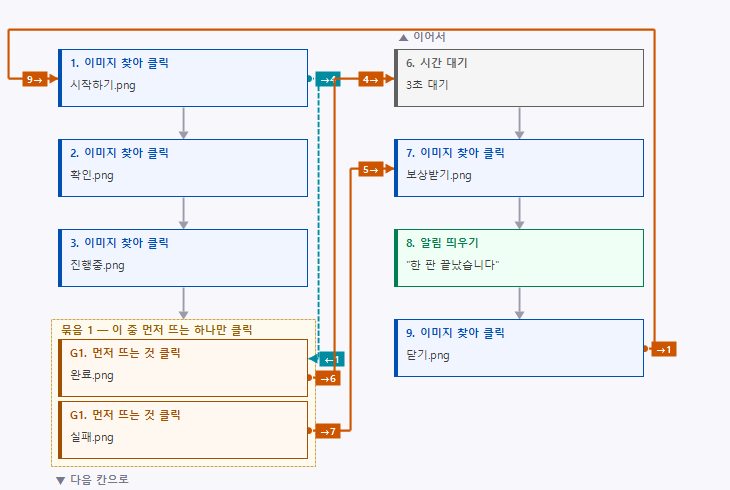
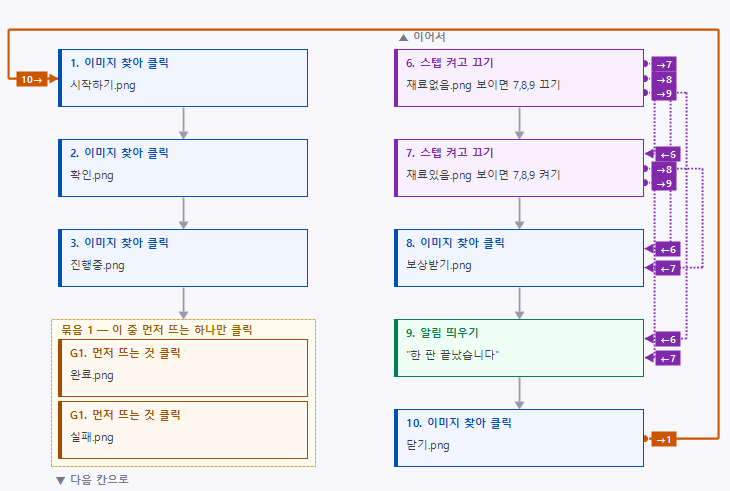
이미지가 보이면 다른 스텝을 켜고 끄는 스텝 추가
특정 이미지가 화면에 보이면 지정한 스텝들을 통째로 켜거나 끈다.
이미지 두 개로 구간을 여닫는 스위치를 만들 수 있다.
예) 5번이 재료없음을 보면 7,8,9 끄기 / 6번이 재료있음을 보면 7,8,9 켜기

- 기다리지 않고 그 자리에서 한 번만 확인하고 지나간다
- 켜고 끈 상태는 실행 중에만 유지되고 저장된 매크로는 바뀌지 않는다
- 실행 흐름 창에 보라 점선으로 대상 스텝을 표시
- 클릭을 하지 않는 스텝이라 클릭 관련 설정은 숨김

diff --git a/Form1.cs b/Form1.cs
@@ -83,6 +83,9 @@ namespace ImageMacro
         Panel   pnlDelay=new(); NumericUpDown nudDelayMs=new(); ComboBox cmbDelayUnit=new(); Label lblDelayHint=new();
         // notification panel
         Panel   pnlNotif=new(); TextBox txtNotifText=new();
+        // 스텝 켜고 끄기
+        Panel   pnlToggleRow=new(); TextBox txtToggleTargets=new(); ComboBox cmbToggleAction=new();
+        Panel   pnlClickCfg=new(),pnlConfRow=new(); Label lblPreviewHint=new(); int _confRowY=0;
         ComboBox cmbClickMode=new(); Button btnAdbCfg=new(); ComboBox cmbMonitor=new(); ToolTip? _tips=null;
         CheckBox chkEventMode=new(); CheckBox chkAntiCapture=new();
         Label   lblStatus=new();
@@ -256,7 +259,7 @@ namespace ImageMacro
             pnlRightInner.Controls.Add(MkSL("── 스텝 종류 ─────────────────────────────────────────────",rx,ry)); ry+=18;
             pnlRightInner.Controls.Add(MkL("종류:",rx,ry+3));
             cmbStepType.Location=new System.Drawing.Point(ix,ry); cmbStepType.Size=new System.Drawing.Size(220,24); cmbStepType.DropDownStyle=ComboBoxStyle.DropDownList; cmbStepType.Font=new Font("맑은 고딕",9);
-            cmbStepType.Items.AddRange(new object[]{"이미지 찾아 클릭","여러 이미지 중 먼저 뜨는 것 클릭","키보드 입력","마우스 이동·클릭","시간 대기","알림 띄우기"});
+            cmbStepType.Items.AddRange(new object[]{"이미지 찾아 클릭","여러 이미지 중 먼저 뜨는 것 클릭","키보드 입력","마우스 이동·클릭","시간 대기","알림 띄우기","이미지 보이면 스텝 켜고 끄기"});
             cmbStepType.SelectedIndex=0; cmbStepType.SelectedIndexChanged+=OnStepTypeChanged;
             pnlRightInner.Controls.Add(cmbStepType); ry+=32;
 
@@ -290,6 +293,18 @@ namespace ImageMacro
                 pnlGroupRow.Controls.Add(new Label{Text="같이 볼 묶음 번호:",Font=new Font("맑은 고딕",8.5f,FontStyle.Bold),Location=new System.Drawing.Point(6,7),AutoSize=true,ForeColor=Color.FromArgb(140,60,0)});
                 nudGroupId.Location=new System.Drawing.Point(PIX,5); nudGroupId.Size=new System.Drawing.Size(55,22); nudGroupId.Minimum=1; nudGroupId.Maximum=99; nudGroupId.Value=1; nudGroupId.ValueChanged+=(s,e)=>{if(_selStep!=null){_selStep.GroupId=(int)nudGroupId.Value;RefreshStepList();}}; pnlGroupRow.Controls.Add(nudGroupId);
                 pnlGroupRow.Controls.Add(new Label{Text="(같은 번호끼리 한꺼번에 감시)",ForeColor=Color.Gray,Font=new Font("맑은 고딕",8),Location=new System.Drawing.Point(PIX+64,8),AutoSize=true});
+                // 켜고 끄기 설정 줄 (묶음 번호 줄과 같은 자리 — 둘은 같이 안 보인다)
+                pnlToggleRow.Location=new System.Drawing.Point(0,y); pnlToggleRow.Size=new System.Drawing.Size(pw,30); pnlToggleRow.BackColor=Color.FromArgb(248,240,255); pnlToggleRow.BorderStyle=BorderStyle.FixedSingle; pnlImage.Controls.Add(pnlToggleRow);
+                pnlToggleRow.Controls.Add(new Label{Text="이 이미지가 보이면 스텝",Font=new Font("맑은 고딕",8.5f,FontStyle.Bold),Location=new System.Drawing.Point(6,7),AutoSize=true,ForeColor=Color.FromArgb(110,30,150)});
+                txtToggleTargets.Location=new System.Drawing.Point(PIX,4); txtToggleTargets.Size=new System.Drawing.Size(90,23); txtToggleTargets.Font=new Font("맑은 고딕",9); txtToggleTargets.PlaceholderText="예: 7,8,9";
+                txtToggleTargets.TextChanged+=(s,e)=>{if(_suppressStepEvt)return;if(_selStep!=null){_selStep.ToggleTargets=txtToggleTargets.Text;RefreshStepList();}};
+                pnlToggleRow.Controls.Add(txtToggleTargets);
+                pnlToggleRow.Controls.Add(new Label{Text="번을",Font=new Font("맑은 고딕",8.5f,FontStyle.Bold),Location=new System.Drawing.Point(PIX+96,7),AutoSize=true,ForeColor=Color.FromArgb(110,30,150)});
+                cmbToggleAction.Location=new System.Drawing.Point(PIX+128,4); cmbToggleAction.Size=new System.Drawing.Size(120,23); cmbToggleAction.DropDownStyle=ComboBoxStyle.DropDownList; cmbToggleAction.Font=new Font("맑은 고딕",8.5f);
+                cmbToggleAction.Items.AddRange(new object[]{"끄기","켜기","반대로"});
+                cmbToggleAction.SelectedIndex=0;
+                cmbToggleAction.SelectedIndexChanged+=(s,e)=>{if(_suppressStepEvt)return;if(_selStep!=null){_selStep.ToggleAction=(ToggleAction)cmbToggleAction.SelectedIndex;RefreshStepList();}};
+                pnlToggleRow.Controls.Add(cmbToggleAction);
                 y+=38;
                 // 한 줄: [파일: ──경로──] [선택] [인식 테스트]
                 pnlImage.Controls.Add(MkL("이미지 파일:",0,y+3));
@@ -311,7 +326,7 @@ namespace ImageMacro
                 y+=22;
                 // 미리보기
                 picPreview.Location=new System.Drawing.Point(0,y); picPreview.Size=new System.Drawing.Size(pw,140); picPreview.BorderStyle=BorderStyle.FixedSingle; picPreview.SizeMode=PictureBoxSizeMode.Zoom; picPreview.BackColor=Color.FromArgb(230,230,235); picPreview.Cursor=Cursors.Cross; picPreview.Paint+=PicPreview_Paint; picPreview.MouseClick+=PicPreview_Click; pnlImage.Controls.Add(picPreview);
-                pnlImage.Controls.Add(new Label{Text="▲ 미리보기 클릭 = 클릭 위치 지정",Location=new System.Drawing.Point(0,y+142),Size=new System.Drawing.Size(pw,16),ForeColor=Color.FromArgb(0,110,180),Font=new Font("맑은 고딕",8)});
+                lblPreviewHint.Text="▲ 미리보기 클릭 = 클릭 위치 지정"; lblPreviewHint.Location=new System.Drawing.Point(0,y+142); lblPreviewHint.Size=new System.Drawing.Size(pw,16); lblPreviewHint.ForeColor=Color.FromArgb(0,110,180); lblPreviewHint.Font=new Font("맑은 고딕",8); pnlImage.Controls.Add(lblPreviewHint);
                 y+=160;
                 // 클릭 위치 오프셋
                 pnlClickPos.Location=new System.Drawing.Point(0,y); pnlClickPos.Size=new System.Drawing.Size(pw,54); pnlClickPos.BorderStyle=BorderStyle.FixedSingle; pnlClickPos.BackColor=Color.FromArgb(245,255,245); pnlImage.Controls.Add(pnlClickPos);
@@ -323,17 +338,24 @@ namespace ImageMacro
                 lblClickInfo.Location=new System.Drawing.Point(204,31); lblClickInfo.AutoSize=true; lblClickInfo.Font=new Font("맑은 고딕",8); lblClickInfo.ForeColor=Color.DarkGreen; lblClickInfo.Text="(이미지 중앙)"; pnlClickPos.Controls.Add(lblClickInfo);
                 btnResetClick.Text="중앙으로 되돌리기"; btnResetClick.Location=new System.Drawing.Point(pw-136,26); btnResetClick.Size=new System.Drawing.Size(128,26); btnResetClick.Click+=BtnResetClick_Click; pnlClickPos.Controls.Add(btnResetClick);
                 y+=62;
-                // 클릭 설정
-                pnlImage.Controls.Add(MkSL("── 클릭 설정 ───────────────────────────────────────────────",0,y)); y+=18;
-                rdClickL.Text="좌클릭"; rdClickL.Location=new System.Drawing.Point(0,y); rdClickL.AutoSize=true; rdClickL.Checked=true; rdClickR.Text="우클릭"; rdClickR.Location=new System.Drawing.Point(PIX,y); rdClickR.AutoSize=true;
-                rdClickL.CheckedChanged+=OnClickTypeChanged; rdClickR.CheckedChanged+=OnClickTypeChanged; pnlImage.Controls.Add(rdClickL); pnlImage.Controls.Add(rdClickR); y+=26;
-                pnlImage.Controls.Add(MkL("클릭 횟수:",0,y+4)); nudClicks.Location=new System.Drawing.Point(PIX,y); nudClicks.Size=new System.Drawing.Size(80,23); nudClicks.Minimum=1; nudClicks.Maximum=100; nudClicks.Value=1; nudClicks.ValueChanged+=OnNudClicks; pnlImage.Controls.Add(nudClicks); y+=26;
-                pnlImage.Controls.Add(MkL("클릭 사이 대기(ms):",0,y+4)); nudCDelay.Location=new System.Drawing.Point(PIX,y); nudCDelay.Size=new System.Drawing.Size(80,23); nudCDelay.Minimum=50; nudCDelay.Maximum=5000; nudCDelay.Value=100; nudCDelay.ValueChanged+=OnNudCDelay; pnlImage.Controls.Add(nudCDelay); y+=26;
-                pnlImage.Controls.Add(MkL("찾기 제한 시간(ms):",0,y+4)); nudTimeout.Location=new System.Drawing.Point(PIX,y); nudTimeout.Size=new System.Drawing.Size(80,23); nudTimeout.Minimum=0; nudTimeout.Maximum=60000; nudTimeout.Value=0; nudTimeout.ValueChanged+=(s,e)=>{if(_selStep!=null)_selStep.Timeout=(int)nudTimeout.Value;}; pnlImage.Controls.Add(nudTimeout);
-                pnlImage.Controls.Add(new Label{Text="(0 = 제한 없음)",Location=new System.Drawing.Point(PIX+88,y+4),AutoSize=true,ForeColor=Color.Gray,Font=new Font("맑은 고딕",8)}); y+=30;
-                pnlImage.Controls.Add(MkSL("── 이미지 일치도 ────────────────────────────────────────────",0,y)); y+=18;
-                pnlImage.Controls.Add(MkL("일치도 기준:",0,y+5)); tbConf.Location=new System.Drawing.Point(PIX,y); tbConf.Size=new System.Drawing.Size(280,28); tbConf.Minimum=50; tbConf.Maximum=99; tbConf.Value=80; tbConf.TickFrequency=5; tbConf.Scroll+=OnConf; pnlImage.Controls.Add(tbConf);
-                lblConf.Text="80%"; lblConf.Location=new System.Drawing.Point(PIX+290,y+5); lblConf.AutoSize=true; pnlImage.Controls.Add(lblConf);
+                // 클릭 설정 (켜고 끄기 스텝에서는 통째로 숨긴다)
+                pnlClickCfg.Location=new System.Drawing.Point(0,y); pnlClickCfg.Size=new System.Drawing.Size(pw,126); pnlClickCfg.BackColor=Color.Transparent; pnlImage.Controls.Add(pnlClickCfg);
+                {
+                    int c=0;
+                    pnlClickCfg.Controls.Add(MkSL("── 클릭 설정 ───────────────────────────────────────────────",0,c)); c+=18;
+                    rdClickL.Text="좌클릭"; rdClickL.Location=new System.Drawing.Point(0,c); rdClickL.AutoSize=true; rdClickL.Checked=true; rdClickR.Text="우클릭"; rdClickR.Location=new System.Drawing.Point(PIX,c); rdClickR.AutoSize=true;
+                    rdClickL.CheckedChanged+=OnClickTypeChanged; rdClickR.CheckedChanged+=OnClickTypeChanged; pnlClickCfg.Controls.Add(rdClickL); pnlClickCfg.Controls.Add(rdClickR); c+=26;
+                    pnlClickCfg.Controls.Add(MkL("클릭 횟수:",0,c+4)); nudClicks.Location=new System.Drawing.Point(PIX,c); nudClicks.Size=new System.Drawing.Size(80,23); nudClicks.Minimum=1; nudClicks.Maximum=100; nudClicks.Value=1; nudClicks.ValueChanged+=OnNudClicks; pnlClickCfg.Controls.Add(nudClicks); c+=26;
+                    pnlClickCfg.Controls.Add(MkL("클릭 사이 대기(ms):",0,c+4)); nudCDelay.Location=new System.Drawing.Point(PIX,c); nudCDelay.Size=new System.Drawing.Size(80,23); nudCDelay.Minimum=50; nudCDelay.Maximum=5000; nudCDelay.Value=100; nudCDelay.ValueChanged+=OnNudCDelay; pnlClickCfg.Controls.Add(nudCDelay); c+=26;
+                    pnlClickCfg.Controls.Add(MkL("찾기 제한 시간(ms):",0,c+4)); nudTimeout.Location=new System.Drawing.Point(PIX,c); nudTimeout.Size=new System.Drawing.Size(80,23); nudTimeout.Minimum=0; nudTimeout.Maximum=60000; nudTimeout.Value=0; nudTimeout.ValueChanged+=(s,e)=>{if(_selStep!=null)_selStep.Timeout=(int)nudTimeout.Value;}; pnlClickCfg.Controls.Add(nudTimeout);
+                    pnlClickCfg.Controls.Add(new Label{Text="(0 = 제한 없음)",Location=new System.Drawing.Point(PIX+88,c+4),AutoSize=true,ForeColor=Color.Gray,Font=new Font("맑은 고딕",8)});
+                }
+                y+=126;
+                _confRowY=y;
+                pnlConfRow.Location=new System.Drawing.Point(0,y); pnlConfRow.Size=new System.Drawing.Size(pw,50); pnlConfRow.BackColor=Color.Transparent; pnlImage.Controls.Add(pnlConfRow);
+                pnlConfRow.Controls.Add(MkSL("── 이미지 일치도 ────────────────────────────────────────────",0,0));
+                pnlConfRow.Controls.Add(MkL("일치도 기준:",0,23)); tbConf.Location=new System.Drawing.Point(PIX,18); tbConf.Size=new System.Drawing.Size(280,28); tbConf.Minimum=50; tbConf.Maximum=99; tbConf.Value=80; tbConf.TickFrequency=5; tbConf.Scroll+=OnConf; pnlConfRow.Controls.Add(tbConf);
+                lblConf.Text="80%"; lblConf.Location=new System.Drawing.Point(PIX+290,23); lblConf.AutoSize=true; pnlConfRow.Controls.Add(lblConf);
             }
 
             // ── 키 입력 패널 ──
@@ -417,26 +439,34 @@ namespace ImageMacro
 
         void ShowPanelForType(StepType t)
         {
-            pnlImage.Visible=t==StepType.Sequential||t==StepType.Simultaneous;
+            bool img=t==StepType.Sequential||t==StepType.Simultaneous||t==StepType.ToggleSteps;
+            pnlImage.Visible=img;
             pnlKey.Visible=t==StepType.KeyInput;
             pnlMove.Visible=t==StepType.MouseMove;
             pnlDelay.Visible=t==StepType.Delay;
             pnlNotif.Visible=t==StepType.Notification;
             pnlGroupRow.Visible=t==StepType.Simultaneous;
+            pnlToggleRow.Visible=t==StepType.ToggleSteps;
+            // 켜고 끄기 스텝은 클릭을 하지 않으니 클릭 관련 설정을 숨기고 일치도만 남긴다
+            bool clicks=t!=StepType.ToggleSteps;
+            pnlClickPos.Visible=clicks; pnlClickCfg.Visible=clicks; lblPreviewHint.Visible=clicks;
+            pnlConfRow.Top=clicks?_confRowY:pnlClickPos.Top;
         }
 
         // ══════════════════════════════════════════════════════
         //  카드 시스템
         // ══════════════════════════════════════════════════════
-        static Color GetTypeColor(StepType t)=>t switch{StepType.Sequential=>Color.FromArgb(0,80,180),StepType.Simultaneous=>Color.FromArgb(160,80,0),StepType.KeyInput=>Color.FromArgb(80,0,160),StepType.MouseMove=>Color.FromArgb(0,120,120),StepType.Delay=>Color.FromArgb(96,96,96),StepType.Notification=>Color.FromArgb(0,128,80),_=>Color.Gray};
-        static Color GetCardBg(StepType t)=>t switch{StepType.Sequential=>Color.FromArgb(240,245,255),StepType.Simultaneous=>Color.FromArgb(255,248,240),StepType.KeyInput=>Color.FromArgb(245,240,255),StepType.MouseMove=>Color.FromArgb(240,255,255),StepType.Delay=>Color.FromArgb(245,245,245),StepType.Notification=>Color.FromArgb(240,255,245),_=>Color.White};
+        static Color GetTypeColor(StepType t)=>t switch{StepType.Sequential=>Color.FromArgb(0,80,180),StepType.Simultaneous=>Color.FromArgb(160,80,0),StepType.KeyInput=>Color.FromArgb(80,0,160),StepType.MouseMove=>Color.FromArgb(0,120,120),StepType.Delay=>Color.FromArgb(96,96,96),StepType.Notification=>Color.FromArgb(0,128,80),StepType.ToggleSteps=>Color.FromArgb(130,40,170),_=>Color.Gray};
+        static Color GetCardBg(StepType t)=>t switch{StepType.Sequential=>Color.FromArgb(240,245,255),StepType.Simultaneous=>Color.FromArgb(255,248,240),StepType.KeyInput=>Color.FromArgb(245,240,255),StepType.MouseMove=>Color.FromArgb(240,255,255),StepType.Delay=>Color.FromArgb(245,245,245),StepType.Notification=>Color.FromArgb(240,255,245),StepType.ToggleSteps=>Color.FromArgb(248,240,255),_=>Color.White};
         static string GetTypeIcon(StepType t)=>"";
-        static string GetTypeName(StepType t)=>t switch{StepType.Sequential=>"이미지 찾아 클릭",StepType.Simultaneous=>"먼저 뜨는 것 클릭",StepType.KeyInput=>"키보드 입력",StepType.MouseMove=>"마우스 이동·클릭",StepType.Delay=>"시간 대기",StepType.Notification=>"알림 띄우기",_=>""};
+        static string GetTypeName(StepType t)=>t switch{StepType.Sequential=>"이미지 찾아 클릭",StepType.Simultaneous=>"먼저 뜨는 것 클릭",StepType.KeyInput=>"키보드 입력",StepType.MouseMove=>"마우스 이동·클릭",StepType.Delay=>"시간 대기",StepType.Notification=>"알림 띄우기",StepType.ToggleSteps=>"스텝 켜고 끄기",_=>""};
         static string GetCardContent(MacroStep st)=>st.Type switch{
             StepType.KeyInput=>string.IsNullOrEmpty(st.KeyText)?$"단축키: {st.HotKey}":$"타이핑: \"{st.KeyText}\"",
             StepType.MouseMove=>st.MoveAction==MoveAction.MoveOnly?$"이동: ({st.MoveX},{st.MoveY})":$"{(st.MoveAction==MoveAction.LeftClick?"좌클릭":"우클릭")}: ({st.MoveX},{st.MoveY})",
             StepType.Delay=>$"{st.DelayMs}{MacroItem.UnitName(st.DelayUnit)} 대기",
             StepType.Notification=>string.IsNullOrEmpty(st.NotificationText)?"(메시지 없음)":$"\"{st.NotificationText}\"",
+            StepType.ToggleSteps=>string.IsNullOrEmpty(st.ImagePath)?"(이미지 미지정)"
+                :$"{Path.GetFileName(st.ImagePath)} 보이면 {(string.IsNullOrWhiteSpace(st.ToggleTargets)?"(대상 없음)":st.ToggleTargets)} {ToggleActionName(st.ToggleAction)}",
             _=>string.IsNullOrEmpty(st.ImagePath)?"(이미지 미지정)":Path.GetFileName(st.ImagePath)};
 
         Panel MakeStepCard(int idx,MacroStep step,int cardW,bool selected)
@@ -589,7 +619,7 @@ namespace ImageMacro
         void OnStepTypeChanged(object? s,EventArgs e)
         {
             if(_selStep==null)return;
-            StepType t=cmbStepType.SelectedIndex switch{0=>StepType.Sequential,1=>StepType.Simultaneous,2=>StepType.KeyInput,3=>StepType.MouseMove,4=>StepType.Delay,5=>StepType.Notification,_=>StepType.Sequential};
+            StepType t=cmbStepType.SelectedIndex switch{0=>StepType.Sequential,1=>StepType.Simultaneous,2=>StepType.KeyInput,3=>StepType.MouseMove,4=>StepType.Delay,5=>StepType.Notification,6=>StepType.ToggleSteps,_=>StepType.Sequential};
             _selStep.Type=t; ShowPanelForType(t); RefreshStepList();
         }
 
@@ -874,7 +904,7 @@ namespace ImageMacro
         {
             nudClicks.ValueChanged-=OnNudClicks; nudCDelay.ValueChanged-=OnNudCDelay;
             cmbStepType.SelectedIndexChanged-=OnStepTypeChanged;
-            cmbStepType.SelectedIndex=st.Type switch{StepType.Sequential=>0,StepType.Simultaneous=>1,StepType.KeyInput=>2,StepType.MouseMove=>3,StepType.Delay=>4,StepType.Notification=>5,_=>0};
+            cmbStepType.SelectedIndex=st.Type switch{StepType.Sequential=>0,StepType.Simultaneous=>1,StepType.KeyInput=>2,StepType.MouseMove=>3,StepType.Delay=>4,StepType.Notification=>5,StepType.ToggleSteps=>6,_=>0};
             SetNud(nudWaitAfter,st.WaitAfter); chkEnabled.Checked=st.Enabled;
             SetNud(nudJump,st.JumpOnSuccess);
             ShowPanelForType(st.Type);
@@ -900,6 +930,7 @@ namespace ImageMacro
             lblPickPos.Text="위 버튼 클릭 후 3초 안에 원하는 위치로 마우스를 이동하세요."; lblPickPos.ForeColor=Color.Gray;
             // 대기
             SetNud(nudDelayMs,st.DelayMs); cmbDelayUnit.SelectedIndex=Math.Clamp(st.DelayUnit,0,2); UpdateDelayHint(st);
+            txtToggleTargets.Text=st.ToggleTargets; cmbToggleAction.SelectedIndex=(int)st.ToggleAction;
             // 알림
             txtNotifText.Text=st.NotificationText;
             // 감시 대상
@@ -928,7 +959,7 @@ namespace ImageMacro
             if(_current.EventMode){
                 foreach(var st in _current.Steps)if(st.Enabled&&st.Type==StepType.Simultaneous&&string.IsNullOrEmpty(st.ImagePath)){MessageBox.Show("이미지 파일이 지정되지 않은 '묶어 찾기' 스텝이 있습니다.","실행 불가");return;}
             }else{
-                foreach(var st in _current.Steps)if(st.Enabled&&(st.Type==StepType.Sequential||st.Type==StepType.Simultaneous)&&string.IsNullOrEmpty(st.ImagePath)){MessageBox.Show("이미지 파일이 지정되지 않은 스텝이 있습니다.","실행 불가");return;}
+                foreach(var st in _current.Steps)if(st.Enabled&&(st.Type==StepType.Sequential||st.Type==StepType.Simultaneous||st.Type==StepType.ToggleSteps)&&string.IsNullOrEmpty(st.ImagePath)){MessageBox.Show("이미지 파일이 지정되지 않은 스텝이 있습니다.","실행 불가");return;}
             }
             _isRunning=true; btnRun.Enabled=false; btnStop.Enabled=true;
             _searchMonitor=_current.SearchMonitor;
@@ -1025,6 +1056,7 @@ namespace ImageMacro
                     else if(step.Type==StepType.KeyInput){RunKey(step);i=NextAfterStep(macro,step,i+1,bitmaps,loopDone);}
                     else if(step.Type==StepType.MouseMove){RunMouseMove(step,macro);i=NextAfterStep(macro,step,i+1,bitmaps,loopDone);}
                     else if(step.Type==StepType.Delay){SetStatus($"[{macro.Name}] 스텝{i+1}: {step.DelayMs}{MacroItem.UnitName(step.DelayUnit)} 대기...");int rem=step.DelayEffectiveMs;while(rem>0&&_isRunning){int ch=Math.Min(rem,100);Thread.Sleep(ch);rem-=ch;}if(step.WaitAfter>0)Thread.Sleep(step.WaitAfter);i=NextAfterStep(macro,step,i+1,bitmaps,loopDone);}
+                    else if(step.Type==StepType.ToggleSteps){RunToggle(macro,step,bitmaps,i);i=NextAfterStep(macro,step,i+1,bitmaps,loopDone);}
                     else if(step.Type==StepType.Notification){if(!string.IsNullOrEmpty(step.NotificationText))ShowNotification(macro.Name,step.NotificationText);if(step.WaitAfter>0)Thread.Sleep(step.WaitAfter);i=NextAfterStep(macro,step,i+1,bitmaps,loopDone);}
                     if(!ok)break;
                 }
@@ -1134,6 +1166,38 @@ namespace ImageMacro
             if(step.WaitAfter>0)Thread.Sleep(step.WaitAfter);
         }
 
+        static string ToggleActionName(ToggleAction a)=>a switch{ToggleAction.On=>"켜기",ToggleAction.Flip=>"반대로",_=>"끄기"};
+
+        // 지정한 이미지가 지금 화면에 보이면 대상 스텝들을 켜거나 끈다.
+        // 안 보이면 아무것도 하지 않고 그냥 지나간다 (기다리지 않는다).
+        // macro 는 실행용 복사본이라 저장된 매크로는 바뀌지 않는다.
+        void RunToggle(MacroItem macro,MacroStep step,Dictionary<string,Bitmap> bitmaps,int idx)
+        {
+            if(string.IsNullOrEmpty(step.ImagePath)||!bitmaps.TryGetValue(step.ImagePath,out var tmpl))return;
+            var targets=ParseWatchTargets(step.ToggleTargets,macro.Steps.Count);
+            if(targets.Count==0)return;
+
+            using var ss=CaptureScreen(out var capOrg);
+            using Mat src=BitmapToMat(ss); using Mat g=new Mat();
+            Cv2.CvtColor(src,g,ColorConversionCodes.BGRA2GRAY);
+            if(!MatchTpl(g,tmpl,step.Confidence/100.0,capOrg).HasValue)return;
+
+            var changed=new List<string>();
+            foreach(int ti in targets){
+                bool on=step.ToggleAction switch{
+                    ToggleAction.On=>true,
+                    ToggleAction.Flip=>!macro.Steps[ti].Enabled,
+                    _=>false};
+                if(macro.Steps[ti].Enabled!=on){macro.Steps[ti].Enabled=on;changed.Add($"{ti+1}");}
+            }
+            string what=step.ToggleAction==ToggleAction.On?"켬":step.ToggleAction==ToggleAction.Flip?"뒤집음":"끔";
+            string where=idx>=0?$"스텝{idx+1}":"[항상감시]";
+            SetStatus(changed.Count>0
+                ? $"[{macro.Name}] {where}: '{Path.GetFileName(step.ImagePath)}' 보임 → 스텝 {string.Join(",",changed)} {what}"
+                : $"[{macro.Name}] {where}: '{Path.GetFileName(step.ImagePath)}' 보임 (이미 {what} 상태)");
+            if(step.WaitAfter>0)Thread.Sleep(step.WaitAfter);
+        }
+
         void HandleTimeout(MacroItem macro,int stepIdx)
         {
             if(macro.OnTimeout==TimeoutAction.Restart){SetStatus($"[{macro.Name}] 스텝{stepIdx+1}: 시간 초과 → {macro.RestartDelay}ms 후 다시 실행...");if(macro.RestartDelay>0)Thread.Sleep(macro.RestartDelay);_restartRequested=true;}
@@ -1179,6 +1243,7 @@ namespace ImageMacro
             switch(action.Type){
                 case StepType.KeyInput:RunKey(action);break;
                 case StepType.MouseMove:RunMouseMove(action,macro);break;
+                case StepType.ToggleSteps:RunToggle(macro,action,bitmaps,-1);break;
                 case StepType.Delay:int rem=action.DelayEffectiveMs;while(rem>0&&_isRunning){int ch=Math.Min(rem,100);Thread.Sleep(ch);rem-=ch;}break;
                 case StepType.Notification:if(!string.IsNullOrEmpty(action.NotificationText))ShowNotification(macro.Name,action.NotificationText);break;
                 case StepType.Sequential:case StepType.Simultaneous:
@@ -1204,7 +1269,8 @@ namespace ImageMacro
             var steps=_current.Steps; int n=steps.Count;
             const int CW=250,CH=58,VGAP=32,COLGAP=86,LM=58,GPAD=7,GHEAD=20,LANE=16,BANDH=15;
             var cOut=Color.FromArgb(205,85,0);      // 실행 후 이동
-            var cWatch=Color.FromArgb(0,140,160);   // 분기 감시
+            var cWatch=Color.FromArgb(0,140,160);   // 끝난 뒤 지켜보기
+            var cTog=Color.FromArgb(130,40,170);    // 스텝 켜고 끄기
             var cSeq=Color.FromArgb(155,155,170);   // 순서대로
 
             // ── 1) 블록 만들기 (단일 카드 또는 묶음 그룹) ──────
@@ -1270,6 +1336,8 @@ namespace ImageMacro
                 int jt=steps[k].JumpOnSuccess-1;
                 if(steps[k].JumpOnSuccess>0&&jt>=0&&jt<n&&jt!=k)jm.Add((k,jt,1));
                 foreach(int w in ParseWatchTargets(steps[k].WatchTargets,n))if(w!=k)jm.Add((k,w,2));
+                if(steps[k].Type==StepType.ToggleSteps)
+                    foreach(int w in ParseWatchTargets(steps[k].ToggleTargets,n))if(w!=k)jm.Add((k,w,3));
             }
             // 한 카드의 같은 면(왼쪽/오른쪽)에 붙는 점들을 모아서
             // 나가는 것과 들어오는 것을 함께 세로로 흩어놓는다 (겹치면 번호표가 가려진다)
@@ -1350,10 +1418,10 @@ namespace ImageMacro
                 Text=$"실행 흐름 — {_current.Name}  (스텝 {n}개)",
                 StartPosition=FormStartPosition.CenterParent,
                 BackColor=Color.FromArgb(248,248,252),
-                MinimumSize=new System.Drawing.Size(520,400)
+                MinimumSize=new System.Drawing.Size(640,400)
             };
             frm.ClientSize=new System.Drawing.Size(
-                Math.Max(Math.Min(canvasW+24,wa.Width*9/10),520),
+                Math.Max(Math.Min(canvasW+24,wa.Width*9/10),640),
                 Math.Max(Math.Min(canvasH+30+24,wa.Height*9/10),420));
 
             var legend=new Panel{Dock=DockStyle.Top,Height=30,BackColor=Color.FromArgb(240,240,246)};
@@ -1365,11 +1433,13 @@ namespace ImageMacro
                 using(var pn=new Pen(cOut,2.2f))g.DrawLine(pn,150,15,166,15);
                 Dot(g,cOut,150,15); Head(g,cOut,172,15);
                 using(var pn=new Pen(cWatch,1.8f){DashStyle=System.Drawing.Drawing2D.DashStyle.Dash})g.DrawLine(pn,330,15,352,15);
+                using(var pn=new Pen(cTog,1.8f){DashStyle=System.Drawing.Drawing2D.DashStyle.Dot})g.DrawLine(pn,470,15,492,15);
             };
             void Leg(string t,int x,Color c){legend.Controls.Add(new Label{Text=t,Location=new System.Drawing.Point(x,8),AutoSize=true,Font=new Font("맑은 고딕",8),ForeColor=c,BackColor=Color.Transparent});}
             Leg("순서대로 실행",40,Color.FromArgb(110,110,125));
             Leg("● 나감 → 들어옴 ▶  (끝나면 이동)",182,Color.FromArgb(180,70,0));
             Leg("끝난 뒤 지켜보기",358,Color.FromArgb(0,125,145));
+            Leg("스텝 켜고 끄기",498,Color.FromArgb(120,35,155));
 
             var scroll=new Panel{Dock=DockStyle.Fill,AutoScroll=true,BackColor=Color.FromArgb(248,248,252)};
             var canvas=new Panel{Location=System.Drawing.Point.Empty,Size=new System.Drawing.Size(canvasW,canvasH),BackColor=Color.FromArgb(248,248,252)};
@@ -1417,9 +1487,10 @@ namespace ImageMacro
                 // 건너뛰는 흐름
                 for(int k=0;k<jm.Count;k++){
                     var(f,t,kind)=jm[k];
-                    Color c=kind==1?cOut:cWatch;
+                    Color c=kind==1?cOut:kind==2?cWatch:cTog;
                     using var pen=new Pen(c,kind==1?2.2f:1.8f);
                     if(kind==2)pen.DashStyle=System.Drawing.Drawing2D.DashStyle.Dash;
+                    if(kind==3)pen.DashStyle=System.Drawing.Drawing2D.DashStyle.Dot;
                     var pts=route[k];
                     for(int j=0;j+1<pts.Length;j++)g.DrawLine(pen,pts[j],pts[j+1]);
                     // 나가는 곳 ●, 들어오는 곳 ▶

diff --git a/MacroItem.cs b/MacroItem.cs
@@ -18,7 +18,20 @@ namespace ImageMacro
         KeyInput,      // 키보드 입력 (텍스트 타이핑 / 단축키)
         MouseMove,     // 마우스 이동·클릭 (좌표 지정)
         Delay,         // 시간 대기
-        Notification   // 알림 띄우기
+        Notification,  // 알림 띄우기
+
+        // 스텝 켜고 끄기 — 지정한 이미지가 화면에 보이면 다른 스텝들을 켜거나 끈다.
+        // 기다리지 않고 그 자리에서 한 번만 확인하고 지나간다.
+        // 켜고 끈 상태는 매크로가 도는 동안 유지되고, 저장된 매크로는 건드리지 않는다.
+        ToggleSteps
+    }
+
+    // 스텝 켜고 끄기에서 무엇을 할지
+    public enum ToggleAction
+    {
+        Off,     // 끄기
+        On,      // 켜기
+        Flip     // 반대로 (켜져 있으면 끄고, 꺼져 있으면 켜기)
     }
 
     public enum TimeoutAction
@@ -85,6 +98,10 @@ namespace ImageMacro
         // 끝난 뒤 지켜볼 스텝 번호들 (쉼표 구분, 1부터. 예: "2,3,4")
         // 이 스텝이 끝나면 해당 스텝들의 이미지를 함께 지켜보다가 먼저 뜨는 쪽으로 이동한다.
         public string     WatchTargets   { get; set; } = "";
+
+        // 스텝 켜고 끄기 스텝용 — 대상 스텝 번호들 (쉼표 구분, 1부터. 예: "7,8,9")
+        public string       ToggleTargets { get; set; } = "";
+        public ToggleAction ToggleAction  { get; set; } = ToggleAction.Off;
 
         // 대기 스텝이 실제로 쉬는 시간(밀리초)
         [JsonIgnore]
@@ -159,6 +176,7 @@ namespace ImageMacro
             MoveY           = s.MoveY,          MoveRelative    = s.MoveRelative,
             MoveAction      = s.MoveAction,     JumpOnSuccess   = s.JumpOnSuccess,
             DelayMs         = s.DelayMs,        DelayUnit       = s.DelayUnit,
+            ToggleTargets   = s.ToggleTargets,  ToggleAction    = s.ToggleAction,
             NotificationText = s.NotificationText,
             WatchTargets    = s.WatchTargets
         };

diff --git a/README.md b/README.md
@@ -14,6 +14,7 @@
 - **이미지가 뜰 때까지 기다렸다 클릭** — 로딩 시간이 들쭉날쭉해도 알아서 기다립니다
 - **여러 이미지 중 먼저 뜨는 것만 클릭** — "성공" 또는 "실패" 중 뜨는 쪽으로 갈라지는 상황 처리
 - **조건 분기 / 반복** — 스텝 사이를 오가며 원하는 흐름을 만들 수 있습니다
+- **상황에 따라 구간 건너뛰기** — 특정 이미지가 보이면 일부 스텝을 통째로 끄고, 다른 이미지가 보이면 다시 켭니다
 - **다중 모니터** — 전체 화면 또는 특정 모니터만 골라서 검색 (세로로 돌린 모니터도 그대로 인식)
 - **커서 없이 클릭** — 마우스 커서를 건드리지 않고 창에 클릭 신호만 보냅니다
 - **ADB 클릭** — 블루스택 등 에뮬레이터에 adb로 터치를 보냅니다 (커서 없이 클릭이 안 통하는 게임용)
@@ -86,6 +87,7 @@ git push origin v1.0.0
 | **마우스 이동·클릭** | 정해둔 좌표로 이동해서 클릭합니다 (절대 좌표 / 현재 위치 기준 상대 이동) |
 | **시간 대기** | 밀리초 · 초 · 분 단위로 쉽니다 |
 | **알림 띄우기** | 화면 오른쪽 아래에 메시지를 3초간 띄웁니다 |
+| **이미지 보이면 스텝 켜고 끄기** | 그 이미지가 지금 보이면 지정한 다른 스텝들을 켜거나 끕니다. 기다리지 않고 그 자리에서 한 번만 확인합니다 |
 
 ---
 
@@ -109,10 +111,32 @@ git push origin v1.0.0
 '여러 이미지 중 먼저 뜨는 것 클릭' 스텝들만 계속 지켜보다가, 화면에 뜨는 즉시 클릭합니다.
 팝업이나 돌발 상황에 반응해야 할 때 씁니다.
 
+### 이미지 보이면 스텝 켜고 끄기
+
+특정 이미지가 화면에 보이면 **다른 스텝들을 통째로 끄거나 켜는** 스텝입니다.
+한 번 바꾼 상태는 매크로가 도는 내내 유지되므로, 이미지 두 개로 구간을 여닫는 스위치를 만들 수 있습니다.
+
+예를 들어 스텝이 1~9개 있고 5·6번을 스위치로 쓰면:
+
+| 스텝 | 설정 |
+|---|---|
+| 5번 | `재료없음.png` 이 보이면 → `7,8,9` **끄기** |
+| 6번 | `재료있음.png` 이 보이면 → `7,8,9` **켜기** |
+
+- 평소에는 `1 → 2 → 3 → 4 → 7 → 8 → 9` 로 돕니다 (5·6번은 확인만 하고 지나갑니다)
+- `재료없음.png` 이 뜨면 7·8·9가 꺼져서 `1 → 2 → 3 → 4` 만 돌고 다시 1번으로 갑니다
+- 나중에 `재료있음.png` 이 뜨면 다시 켜져서 `1 → 2 → 3 → 4 → 7 → 8 → 9` 로 돌아옵니다
+
+동작은 세 가지입니다 — **끄기**, **켜기**, **반대로**(켜져 있으면 끄고 꺼져 있으면 켜기).
+
+> 켜고 끈 상태는 **실행 중에만** 적용됩니다. 저장된 매크로 파일은 바뀌지 않으니
+> 다음에 다시 실행하면 원래 켜짐/꺼짐 상태에서 시작합니다.
+
 ### 실행 흐름 보기
 
 만들어둔 흐름을 그림으로 확인할 수 있습니다.
 **●** 는 선이 나가는 곳, **▶** 는 들어오는 곳이고, 옆의 숫자가 상대 스텝 번호입니다.
+주황 실선은 `끝나면 갈 스텝`, 청록 파선은 `끝난 뒤 지켜볼 스텝`, 보라 점선은 `스텝 켜고 끄기` 입니다.
 
 ![실행 흐름](docs/flow.png)
 
